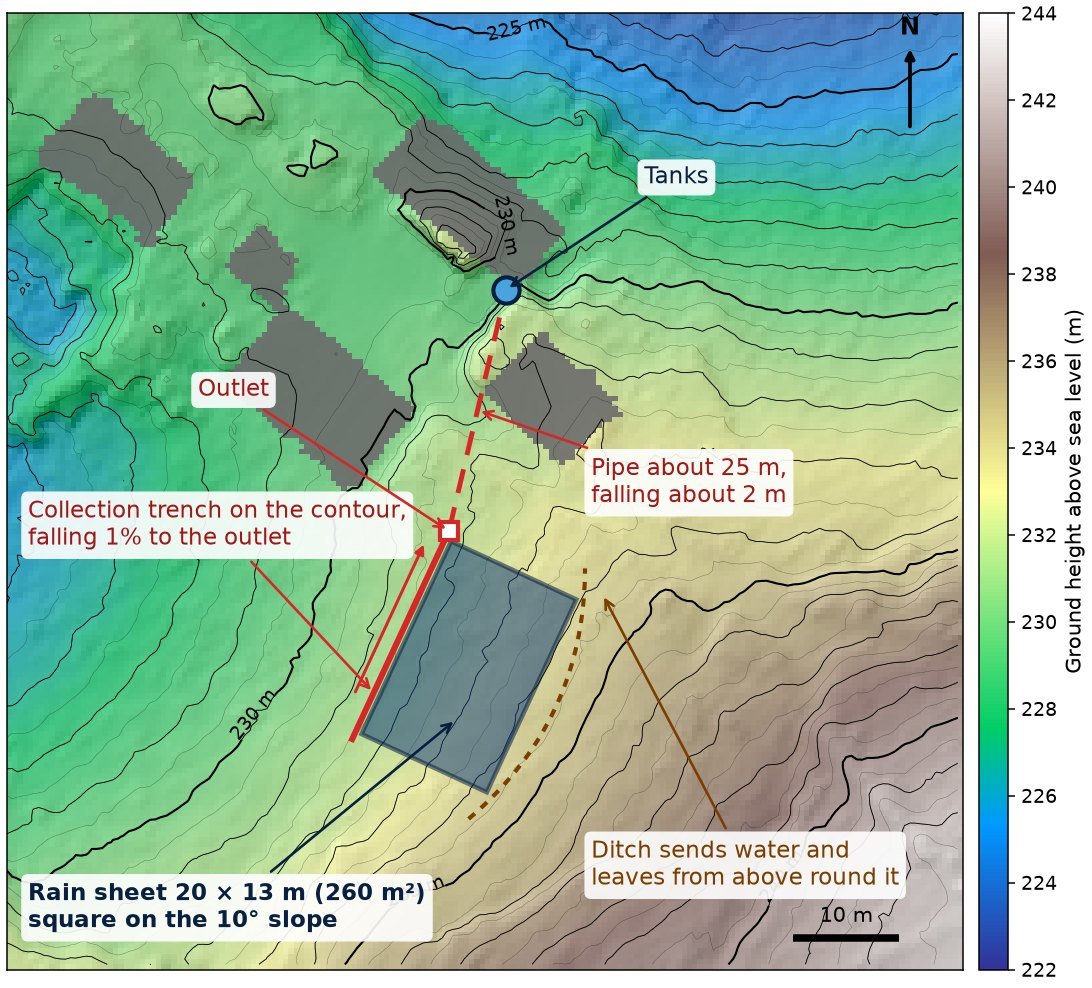
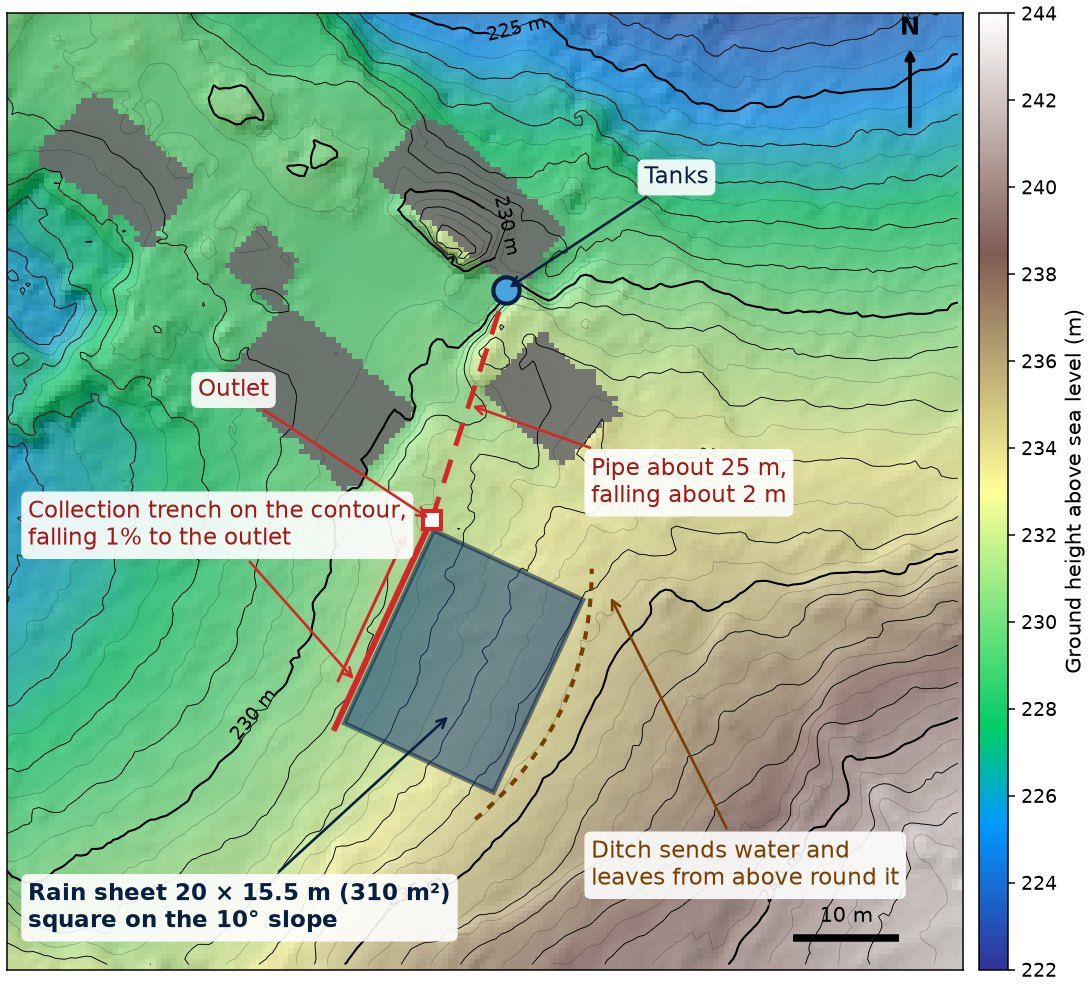
Enlarge the rain sheet to 20 x 15.5 m; "How this simulation works"
310 m² covers 2009, the driest summer since 1994, without a tanker (260 m² needed one).
Costs, sheet dimensions, weight, map and README updated to match.

diff --git a/index.html b/index.html
@@ -168,7 +168,7 @@
 <section class="fix" id="fix">
   <div class="fix-label">The recommended fix</div>
   <h2>A rain sheet on the slope next to the house</h2>
-  <p>The house runs short because its roofs catch too little rain in summer. The tanks are big enough: they're full every spring. So the answer is <b>more collecting surface</b>. The simplest, cheapest and lowest-risk way to get it is one rubber (EPDM) sheet, about <b>20 × 13 m</b>, laid on the open scrub slope just south of the buildings. It drains by gravity into the existing tanks: no pump, no new tank, no building work.</p>
+  <p>The house runs short because its roofs catch too little rain in summer. The tanks are big enough: they're full every spring. So the answer is <b>more collecting surface</b>. The simplest, cheapest and lowest-risk way to get it is one rubber (EPDM) sheet, about <b>20 × 15.5 m</b>, laid on the open scrub slope just south of the buildings. It drains by gravity into the existing tanks: no pump, no new tank, no building work. It's sized so that even 2009, the driest summer in the record since 1994, would have needed no tanker.</p>
   <p class="fix-live" id="fix_live">Calculating…</p>
   <div class="toolbar"><button type="button" id="fix_btn">Switch the sheet on in the simulator</button>
     <span class="small muted">It's also in the settings under <i>Roofs, terraces and ground sheet</i>.</span></div>
@@ -185,7 +185,7 @@
       <thead><tr><th>Option</th><th>Upfront cost</th><th>Tanker deliveries a summer</th><th>Risk and hassle</th></tr></thead>
       <tbody>
         <tr><td>As now, with tankers</td><td>None</td><td class="num">6.5 (about €1,800 a year)</td><td>Depends on finding a haulier and a legal filling point; in a drought, towns compete for the same lorries.</td></tr>
-        <tr class="best"><td><b>Rain sheet, 20 × 13 m</b></td><td><b>About €4,100–6,600</b></td><td class="num"><b>0</b> (lowest the tanks got: about 15 m³, in 2016)</td><td>Proven method, a few days' work, gravity-fed. No permit expected; scrub cleared in winter. Lasts 20–40 years.</td></tr>
+        <tr class="best"><td><b>Rain sheet, 20 × 15.5 m</b></td><td><b>About €4,700–7,500</b></td><td class="num"><b>0</b> (lowest the tanks got: about 18 m³, in 2016; 6 m³ in 2009, the driest summer since 1994)</td><td>Proven method, a few days' work, gravity-fed. No permit expected; scrub cleared in winter. Lasts 20–40 years.</td></tr>
         <tr><td>Yoga building roof as well</td><td>Gutters and a pipe</td><td class="num">4.6</td><td>Easy, but on its own it isn't enough.</td></tr>
         <tr><td>Shower water reused to flush toilets</td><td>Replumbing (not costed)</td><td class="num">1.0 (0 with the yoga roof)</td><td>Works, but needs new pipework and a declaration to the authorities.</td></tr>
         <tr><td>200 m³ more tank space</td><td>High</td><td class="num">5.5</td><td>Barely helps: the tanks already start the summer full.</td></tr>
@@ -201,9 +201,9 @@
     <div class="body">
       <ul class="checks">
         <li><b>The house sits on a saddle at about 229.5 m</b>, between two hollows. Bowl 1, to the south-west, is a closed limestone hollow (a doline) with its floor at about 224.5 m. Bowl 2, to the north-east, is the head of a dry valley that falls away north.</li>
-        <li><b>The sheet goes on the slope just south of the buildings</b>, at the south-east end of bowl 1. The ground there rises from about 231.5 to 234 m at a steady 10°, facing west-north-west. It's scrub, with no trees to fell; the trees start at the top of the slope.</li>
-        <li><b>It's square on the slope.</b> The 20 m edges run along the contour lines and the 13 m sides run straight down the slope, so every part of the sheet drains by the shortest route into one trench along the bottom edge.</li>
-        <li><b>Gravity does the work.</b> The bottom edge, at about 231.5 m, is above the ground at the tanks (about 229.5 m, at the southern corner of the north-east building). About 25 m of buried pipe runs north from the outlet to the tanks and falls about 2 m.</li>
+        <li><b>The sheet goes on the slope just south of the buildings</b>, at the south-east end of bowl 1. The ground there rises from about 231 to 234 m at a steady 10°, facing west-north-west. It's scrub, with no trees to fell; the trees start at the top of the slope.</li>
+        <li><b>It's square on the slope.</b> The 20 m edges run along the contour lines and the 15.5 m sides run straight down the slope, so every part of the sheet drains by the shortest route into one trench along the bottom edge.</li>
+        <li><b>Gravity does the work.</b> The bottom edge, at about 231.2–231.6 m, is above the ground at the tanks (about 229.5 m, at the southern corner of the north-east building). About 25 m of buried pipe runs north from the outlet to the tanks and falls about 2 m.</li>
         <li><b>Hard to see.</b> The sheet lies flat on the ground below the trees, so it shows little from a distance. A dark colour helps.</li>
       </ul>
       <p class="tiny">Heights are from the IGN LiDAR HD survey (<a href="https://geoservices.ign.fr/lidarhd" target="_blank" rel="noopener">geoservices.ign.fr/lidarhd</a>), flown 11 April 2022.</p>
@@ -220,7 +220,7 @@
         <li><b>Dig anchor trenches</b> about 30 × 30 cm along the top edge and both sides, and a shallow <b>diversion ditch</b> above the top edge that sends water and leaves from the wood round the sheet.</li>
         <li><b>Lay a protective underlay</b> of non-woven geotextile (300 g/m², or 500 g/m² over rock or a lot of stone).</li>
         <li><b>Lay the sheet</b> from the top on a calm, warm day, when the rubber is supple. Pull it downhill so it lies flat without ripples. Bury its top and side edges in the anchor trenches and lap the bottom edge into the collection trench.</li>
-        <li><b>Fit the outlet</b>: an EPDM pipe collar into 110 mm PVC pipe, laid with a steady fall to the tanks, with a self-cleaning leaf filter rated for at least 260 m² where it enters them.</li>
+        <li><b>Fit the outlet</b>: an EPDM pipe collar into 110 mm PVC pipe, laid with a steady fall to the tanks, with a self-cleaning leaf filter rated for at least 310 m² where it enters them.</li>
         <li><b>Fence it</b> against wild boar and deer, and keep guests off: wet rubber on a slope is very slippery. Cut back any branches that overhang it.</li>
       </ol>
       <p class="small">Upkeep: sweep or blow off leaves before May and after summer storms, clean the leaf filter, and check the sheet once a year. Small tears are patched like a bicycle tyre.</p>
@@ -235,16 +235,16 @@
         <table>
           <thead><tr><th>Item</th><th class="num">Rough cost</th></tr></thead>
           <tbody>
-            <tr><td>EPDM sheet in one piece, 21.35 × 15.25 m (about 325 m², 1.14–1.2 mm thick), allowing for the trenches</td><td class="num">€2,900–4,200</td></tr>
-            <tr><td>Geotextile underlay, about 330 m²</td><td class="num">€300–600</td></tr>
+            <tr><td>EPDM sheet made to measure in one piece, about 21.6 × 17.8 m (about 385 m², 1.14–1.2 mm thick), allowing for the trenches</td><td class="num">€3,400–5,000</td></tr>
+            <tr><td>Geotextile underlay, about 390 m²</td><td class="num">€400–700</td></tr>
             <tr><td>Outlet collar, leaf filter and about 25 m of 110 mm pipe</td><td class="num">€400–800</td></tr>
             <tr><td>Fence against wild boar and deer</td><td class="num">€500–1,000</td></tr>
-            <tr><th>Total</th><th class="num">€4,100–6,600</th></tr>
+            <tr><th>Total</th><th class="num">€4,700–7,500</th></tr>
             <tr><td class="muted">Optional: small digger with driver for a day, for clearing and trenches</td><td class="num muted">€300–600</td></tr>
           </tbody>
         </table>
       </div>
-      <p class="small">For scale, a US supplier lists a sheet of exactly this size (50 × 70 ft) for $3,500, weighing about 475 kg (<a href="https://justpondliners.com/products/50-x-70-45mil-epdm-pond-liner" target="_blank" rel="noopener">Just Pond Liners</a>). Sheets this large in one piece are routine: Elevate (formerly Firestone) makes them up to 36 m wide, and Flexirub and ETOBA make them to measure up to 1,200–2,000 m².</p>
+      <p class="small">For scale, a US supplier lists a slightly smaller one-piece sheet, 15.25 × 21.35 m (50 × 70 ft), for $3,500, weighing about 475 kg (<a href="https://justpondliners.com/products/50-x-70-45mil-epdm-pond-liner" target="_blank" rel="noopener">Just Pond Liners</a>). Sheets this large in one piece are routine: Elevate (formerly Firestone) makes them up to 36 m wide, and Flexirub and ETOBA make them to measure up to 1,200–2,000 m².</p>
       <h3>Suppliers in France</h3>
       <ul class="checks small">
         <li><b>Egide Systèmes</b>, Mérignac (Bordeaux), 05 56 02 76 39. Approved Elevate distributor, the nearest to the house.</li>
@@ -253,7 +253,7 @@
         <li><b>Chausson Matériaux</b> (builders' merchant across the south-west) sells Flexirub's made-to-measure Aquafilma EPDM, one piece up to 2,000 m², 1.2 mm, 20-year warranty (<a href="https://www.batiproduits.com/fiche/produits/geomembrane-epdm-pour-stockage-d-eau-ou-lagunage-p69097578.html" target="_blank" rel="noopener">product sheet</a>).</li>
         <li><b>ETOBA</b>, 01 34 84 04 64, contact@etoba.fr: rolls 3–15 m wide, made to measure up to 1,200 m² without joints (<a href="https://www.batiproduits.com/fiche/produits/bache-epdm-d-epaisseur-1-mm-pour-bassin-de-rete-p325177020.html" target="_blank" rel="noopener">product sheet</a>).</li>
       </ul>
-      <p class="small">Ask for: EPDM geomembrane 1.14–1.2 mm in one piece, 21.35 × 15.25 m; about 330 m² of geotextile; a 110 mm EPDM pipe collar; delivery on a pallet to the house (mention the track and ask about a tail lift). The folded sheet weighs about 450–500 kg, so plan on a tractor, a small digger or five or six people to move it.</p>
+      <p class="small">Ask for: EPDM geomembrane 1.14–1.2 mm, made to measure in one piece, about 21.6 × 17.8 m (wider than the standard 15.25 m rolls); about 390 m² of geotextile; a 110 mm EPDM pipe collar; delivery on a pallet to the house (mention the track and ask about a tail lift). The folded sheet weighs about 550–600 kg, so plan on a tractor, a small digger or five or six people to move it.</p>
     </div>
   </details>
 
@@ -331,7 +331,7 @@
 </section>
 
 <section>
-  <h2>How this works</h2>
+  <h2>How this simulation works</h2>
   <div class="flow" aria-hidden="true">
     <div class="box"><span class="t">1. Rain</span>Measured every day at Anglars, 3 km away<span class="v" id="fl_rain"></span></div>
     <div class="arrow">→</div>
@@ -359,7 +359,7 @@
         <tbody>
           <tr><td>Daily rainfall</td><td><span class="ex_range"></span></td><td>Météo-France rain gauge 46005001, Anglars-Juillac, 2.9 km from the house. The gauge is in the valley at 104 m and the house is on the plateau at about 229 m; if anything, slightly higher ground gets slightly more rain, so the gauge is on the cautious side. Published as <a href="https://www.data.gouv.fr/fr/datasets/donnees-climatologiques-de-base-quotidiennes/" target="_blank" rel="noopener">open data on data.gouv.fr</a>. Refreshed on this page every week.</td></tr>
           <tr><td>Roof areas</td><td>2 roofs, 15 × 5 m each</td><td>Footprint of each roof. It's the area seen from above that catches rain, not the larger sloping tiled surface.</td></tr>
-          <tr><td>Ground sheet</td><td>Off; 20 × 13 m, 85% reaches the tanks</td><td>The proposed rubber sheet on the slope south of the buildings (see <a href="#fix">the recommended fix</a>). A plastic-sheeted catchment on a South Australian farm gave close to 100% runoff when the sheet lay flat, even in small showers (<a href="https://cdn.environment.sa.gov.au/landscape/docs/ki/CASE-STUDY_CHIRGWIN-005.pdf" target="_blank" rel="noopener">Kangaroo Island case study</a>). 85% allows for ripples, leaves, dust and the first rinse.</td></tr>
+          <tr><td>Ground sheet</td><td>Off; 20 × 15.5 m, 85% reaches the tanks</td><td>The proposed rubber sheet on the slope south of the buildings (see <a href="#fix">the recommended fix</a>). A plastic-sheeted catchment on a South Australian farm gave close to 100% runoff when the sheet lay flat, even in small showers (<a href="https://cdn.environment.sa.gov.au/landscape/docs/ki/CASE-STUDY_CHIRGWIN-005.pdf" target="_blank" rel="noopener">Kangaroo Island case study</a>). 85% allows for ripples, leaves, dust and the first rinse.</td></tr>
           <tr><td>Collection efficiency</td><td>75%</td><td>Design standards for rainwater systems (BS 8515 in the UK, DIN 1989 in Germany) assume roughly 80–90% runs off a pitched roof and about 90% gets through the filter. Set a little lower here for clay tiles and summer cloudbursts. You can measure the real figure with your own tanks at the bottom of the page.</td></tr>
           <tr><td>Tanks</td><td>2 tanks, 4 × 4 × 4 m, 90% usable</td><td>Estimated size, still to be measured. The very bottom (below the pump intake) and top (above the overflow pipe) can't be used.</td></tr>
           <tr><td>Water use</td><td>120 litres per guest per day</td><td>Built up from showers, toilets, taps, laundry and dishwasher under <i>Water use in detail</i>. For comparison, the French average is about 145 litres per person per day including drinking, cooking and gardens (<a href="https://chiffrecle.oieau.fr/3049" target="_blank" rel="noopener">Eau France, 2023</a>).</td></tr>

diff --git a/app.js b/app.js
@@ -44,11 +44,11 @@
     { n: 'Yoga building', l: 5, w: 7, on: 0 },
     { n: 'Terrace', l: 10, w: 4, on: 0 },
     { n: 'Small terrace', l: 5, w: 3, on: 0 },
-    { n: 'Ground sheet (EPDM)', l: 20, w: 13, on: 0, e: 85 },
+    { n: 'Ground sheet (EPDM)', l: 20, w: 15.5, on: 0, e: 85 },
   ];
   const SHEET = 5; // row of the ground sheet in the surface list
   // Rough cost range of the sheet, €: outlet, pipe and fence, plus sheet and underlay by area.
-  // Gives €4,100 to €6,600 for the 20 × 13 m design (see the solution section).
+  // Gives €4,700 to €7,500 for the 20 × 15.5 m design (see the solution section).
   const sheetCost = (area) => [900 + 12.3 * area, 1800 + 18.5 * area].map((x) => Math.round(x / 100) * 100);
   // Box tanks use length × width × depth; round tanks use l as the diameter and ignore w.
   const DEFAULT_TANKS = [

diff --git a/README.md b/README.md
@@ -96,15 +96,17 @@ page has the full write-up, the map and the sources; in short:
 
 - **Site** (IGN LiDAR HD, flown 11 April 2022): the house sits
   on a saddle at about 229.5 m between two hollows. The slope south of the buildings rises from
-  about 231.5 to 234 m at 10°, facing west-north-west, scrub only. The tanks are at the southern corner of the north-east building, ground about 229.5 m.
-- **Layout:** 20 × 13 m (260 m²), square on the slope: the 20 m bottom edge follows the contour,
+  about 231 to 234 m at 10°, facing west-north-west, scrub only. The tanks are at the southern corner of the north-east building, ground about 229.5 m.
+- **Layout:** 20 × 15.5 m (310 m²), square on the slope: the 20 m bottom edge follows the contour,
   with a collection trench falling 1% to an outlet at the north-east end. About 25 m of buried
   110 mm pipe runs north and falls about 2 m to the tanks, at the southern corner of the
   north-east building. No pump.
 - **Result with the default settings:** tanker deliveries go from 6.5 a summer (about €1,800 a
-  year) to none since 2010; the lowest the tanks get is about 15 m³ (2016).
-- **Cost:** about €4,100–6,600 (sheet 21.35 × 15.25 m, about 325 m², €2,900–4,200; underlay
-  €300–600; outlet, filter and pipe €400–800; fence €500–1,000). Pays back in about 2–4 summers.
+  year) to none, in every summer since 1994; the lowest the tanks get is 18 m³ since 2010 (2016)
+  and 6 m³ in 2009, the driest summer in the record. A 260 m² sheet would have needed one tanker in
+  2009; 20 m³ more tank would do the same job as the extra 50 m² of sheet but costs far more.
+- **Cost:** about €4,700–7,500 (sheet made to measure, about 21.6 × 17.8 m or 385 m², €3,400–5,000;
+  underlay €400–700; outlet, filter and pipe €400–800; fence €500–1,000). Pays back in about 3–4 summers.
 - **Suppliers:** Egide Systèmes, Mérignac, 05 56 02 76 39 and EPDM Méditerranée, Mudaison,
   07 82 52 53 55 (Elevate distributors); Chausson Matériaux (Flexirub Aquafilma, made to
   measure); ETOBA, 01 34 84 04 64.
@@ -129,7 +131,7 @@ guests also needs a prefect's authorisation after an approved hydrogeologist's o
 |---|---|---|
 | Collecting surfaces | Roofs 1 and 2, 15 × 5 m each | Footprint (plan area), which is what catches rain |
 | Optional surfaces | Yoga building roof 5 × 7 m, terraces 10 × 4 m and 5 × 3 m | Off by default |
-| Ground sheet | 20 × 13 m EPDM sheet, 85% reaching the tanks | Off by default; the recommended fix (see below) |
+| Ground sheet | 20 × 15.5 m EPDM sheet, 85% reaching the tanks | Off by default; the recommended fix (see below) |
 | Collection efficiency | 75% | BS 8515 / DIN 1989 use about 0.8–0.9 runoff × 0.9 filter; set lower for clay tiles and summer cloudbursts |
 | Tanks | Tank 1 and Tank 2, each a 4 × 4 × 4 m box, 90% usable | Estimated, still to be measured. Each tank has its own size and shape (box or round), and more can be added |
 | Guests | 8, fully booked, May to October | |
